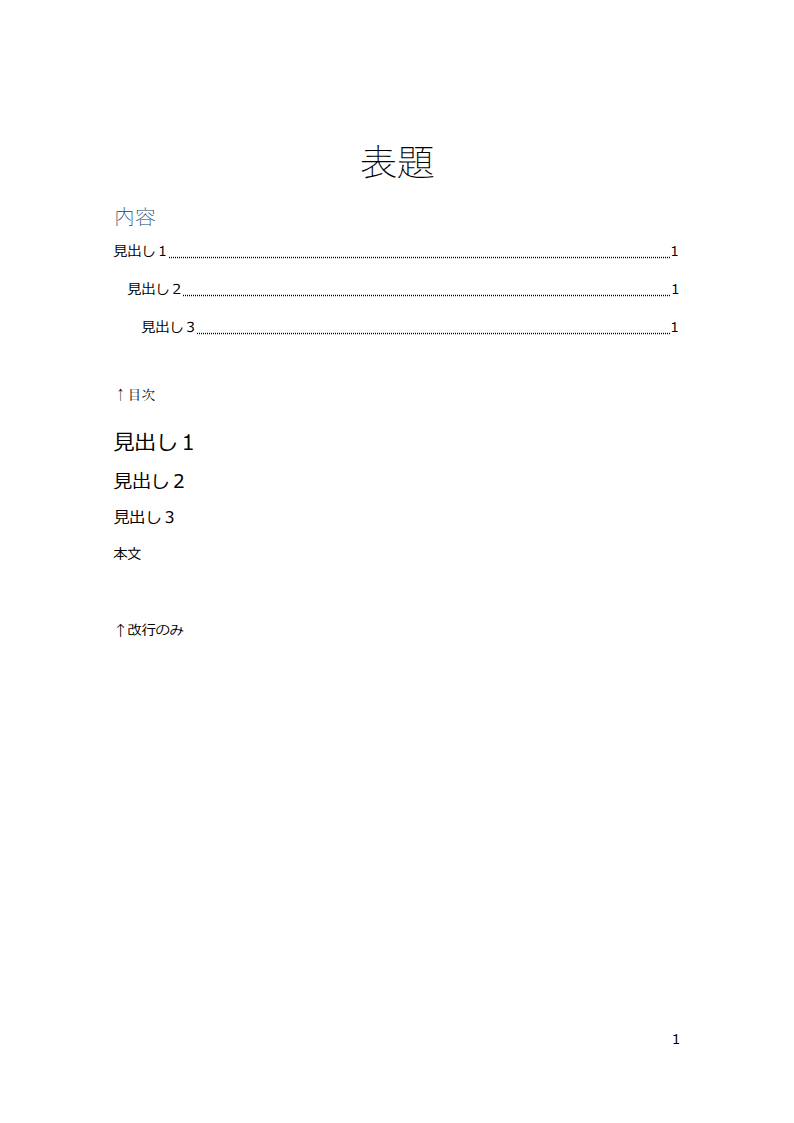
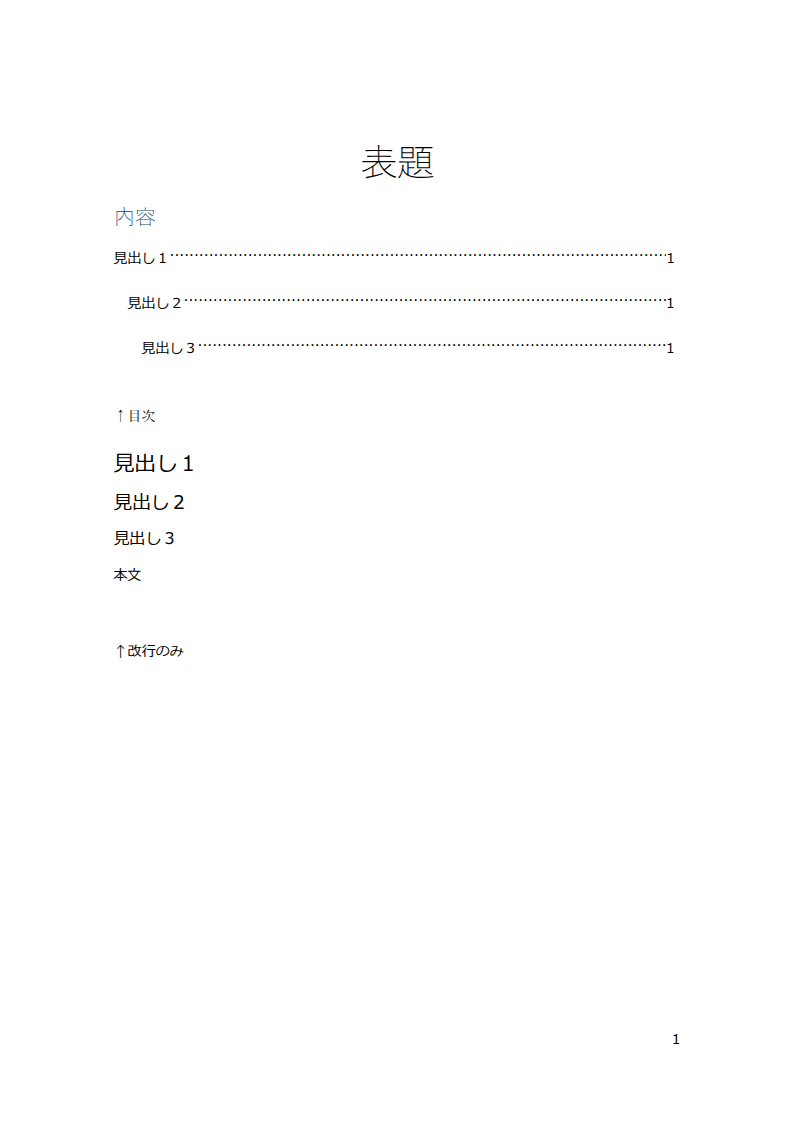
- src/ooxml/wordprocessingml/parsing/properties-parser.ts: w:rPr/w:spacing を margin-bottom ではなく letter-spacing として処理。direct run だけでなく style/default rPr 側も対応。   - src/javascript.ts: TOC の tab leader を dotted underline 代用から、tab 幅に合わせた glyph 繰り返しに変更。

diff --git a/src/javascript.ts b/src/javascript.ts
@@ -3,6 +3,7 @@ import { TabStop } from '@docx/ooxml/wordprocessingml/document/model/paragraph';
 
 const defaultTab: TabStop = { position: 0, leader: "none", style: "left" };
 const maxTabs = 50;
+let leaderMeasureContext: CanvasRenderingContext2D | null = null;
 
 // calculate pixel to point ratio.
 // ratio = point / pixel;
@@ -21,6 +22,7 @@ export function computePointToPixelRatio(container: HTMLElement = document.body)
 }
 
 export function updateTabStop(element: HTMLElement, tabs: TabStop[], defaultTabSize: Length, pixelToPoint: number = 72 / 96) {
+	resetTabElement(element);
 	// element's parent paragraph
 	const oParagraph: HTMLParagraphElement = element.closest("p");
 	// element rect
@@ -90,31 +92,78 @@ export function updateTabStop(element: HTMLElement, tabs: TabStop[], defaultTabS
 		width = tab.position - left;
 	}
 
-	element.innerHTML = "&nbsp;";
-	element.style.textDecoration = "inherit";
-	element.style.wordSpacing = `${width.toFixed(0)}pt`;
+	applyTabLeader(element, tab.leader, Math.max(width, 0), pixelToPoint);
+}
 
-	switch (tab.leader) {
+function resetTabElement(element: HTMLElement): void {
+	element.textContent = '\u00a0';
+	element.style.display = '';
+	element.style.width = '';
+	element.style.overflow = '';
+	element.style.whiteSpace = '';
+	element.style.wordSpacing = '';
+	element.style.textDecoration = 'inherit';
+	element.style.textDecorationLine = 'none';
+}
+
+function applyTabLeader(element: HTMLElement, leader: string, widthPt: number, pixelToPoint: number): void {
+	element.style.display = 'inline-block';
+	element.style.width = `${widthPt.toFixed(2)}pt`;
+	element.style.overflow = 'hidden';
+	element.style.whiteSpace = 'nowrap';
+	element.style.textDecoration = 'inherit';
+
+	const glyph = leaderGlyph(leader);
+	if (!glyph) {
+		element.textContent = '\u00a0';
+		element.style.wordSpacing = `${widthPt.toFixed(2)}pt`;
+		return;
+	}
+
+	element.style.wordSpacing = '';
+	element.textContent = glyph.repeat(leaderGlyphCount(element, glyph, widthPt, pixelToPoint));
+}
+
+function leaderGlyph(leader: string): string | null {
+	switch (leader) {
 		case "dot":
+			return ".";
 		case "middleDot":
-			element.style.textDecorationLine = "underline";
-			element.style.textDecorationStyle = "dotted";
-			break;
-
+			return "·";
 		case "hyphen":
-			element.style.textDecorationLine = "underline";
-			element.style.textDecorationStyle = "dashed";
-			break;
-
+			return "-";
 		case "heavy":
 		case "underscore":
-			element.style.textDecorationLine = "underline";
-			element.style.textDecorationStyle = "solid";
-			break;
-
+			return "_";
 		case "none":
 		default:
-			element.style.textDecorationLine = "none";
-			break;
+			return null;
 	}
+}
+
+function leaderGlyphCount(element: HTMLElement, glyph: string, widthPt: number, pixelToPoint: number): number {
+	const widthPx = widthPt / pixelToPoint;
+	const glyphWidth = measureLeaderGlyph(element, glyph);
+	if (!Number.isFinite(glyphWidth) || glyphWidth <= 0) {
+		return 1;
+	}
+	return Math.max(1, Math.ceil(widthPx / glyphWidth) + 2);
+}
+
+function measureLeaderGlyph(element: HTMLElement, glyph: string): number {
+	if (!leaderMeasureContext) {
+		leaderMeasureContext = document.createElement('canvas').getContext('2d');
+	}
+	if (!leaderMeasureContext) {
+		return 0;
+	}
+
+	const style = getComputedStyle(element);
+	leaderMeasureContext.font = `${style.fontStyle} ${style.fontVariant} ${style.fontWeight} ${style.fontSize} ${style.fontFamily}`;
+	const letterSpacing = parseFloat(style.letterSpacing);
+	let spacing = 0;
+	if (Number.isFinite(letterSpacing)) {
+		spacing = letterSpacing;
+	}
+	return leaderMeasureContext.measureText(glyph).width + spacing;
 }

diff --git a/src/ooxml/wordprocessingml/parsing/properties-parser.ts b/src/ooxml/wordprocessingml/parsing/properties-parser.ts
@@ -137,6 +137,11 @@ export function parseDefaultProperties(
 				style["background-color"] = xmlUtil.colorAttr(c, "fill", null, autos.shd);
 				break;
 
+			// Expanded or compressed character pitch.
+			case "spacing":
+				style["letter-spacing"] = xml.lengthAttr(c, "val");
+				break;
+
 			// Small Caps
 			case "smallCaps":
 				style["font-variant"] = xml.boolAttr(c, "val", true) ? "small-caps" : "none";
@@ -412,7 +417,7 @@ export function parseSpacing(node: Element, run: WmlRun, options: DocumentParser
 	for (const attr of xml.attrs(node)) {
 		switch (attr.localName) {
 			case "val":
-				run.cssStyle["margin-bottom"] = xml.lengthAttr(node, "val");
+				run.cssStyle["letter-spacing"] = xml.lengthAttr(node, "val");
 				break;
 			default:
 				if (options.debug) {

diff --git a/ACCURACY.md b/ACCURACY.md
@@ -8,21 +8,21 @@ Every library renders `tests/fixtures/a.docx` with `{ breakPages: true }` inside
 
 | Library | Pages rendered | Overall score |
 |---|---|---|
-| docx-renderer (this project) | 5 / 5 | **98.9%** |
-| docx-preview-sync (fork parent) | 5 / 5 | **94.2%** |
-| docx-preview (docxjs, original) | 3 / 5 | **53.3%** |
+| docx-renderer (this project) | 5 / 5 | **98.901%** |
+| docx-preview-sync (fork parent) | 5 / 5 | **94.227%** |
+| docx-preview (docxjs, original) | 3 / 5 | **53.285%** |
 
 ## docx-renderer (this project)
 
 | Page | Score |
 |---|---|
-| 1 | 99.4% |
-| 2 | 98.7% |
-| 3 | 99.8% |
-| 4 | 99.4% |
-| 5 | 97.1% |
+| 1 | 99.531% |
+| 2 | 98.702% |
+| 3 | 99.787% |
+| 4 | 99.387% |
+| 5 | 97.101% |
 
-### Page 1 — 99.4%
+### Page 1 — 99.531%
 
 <p align="center">
   <img src="./accuracy/docx-renderer/page-1-reference.png" width="30%" alt="Word reference, page 1">
@@ -31,7 +31,7 @@ Every library renders `tests/fixtures/a.docx` with `{ breakPages: true }` inside
 </p>
 <p align="center"><sub>Word reference · rendered output · pixel diff</sub></p>
 
-### Page 2 — 98.7%
+### Page 2 — 98.702%
 
 <p align="center">
   <img src="./accuracy/docx-renderer/page-2-reference.png" width="30%" alt="Word reference, page 2">
@@ -40,7 +40,7 @@ Every library renders `tests/fixtures/a.docx` with `{ breakPages: true }` inside
 </p>
 <p align="center"><sub>Word reference · rendered output · pixel diff</sub></p>
 
-### Page 3 — 99.8%
+### Page 3 — 99.787%
 
 <p align="center">
   <img src="./accuracy/docx-renderer/page-3-reference.png" width="30%" alt="Word reference, page 3">
@@ -49,7 +49,7 @@ Every library renders `tests/fixtures/a.docx` with `{ breakPages: true }` inside
 </p>
 <p align="center"><sub>Word reference · rendered output · pixel diff</sub></p>
 
-### Page 4 — 99.4%
+### Page 4 — 99.387%
 
 <p align="center">
   <img src="./accuracy/docx-renderer/page-4-reference.png" width="30%" alt="Word reference, page 4">
@@ -58,7 +58,7 @@ Every library renders `tests/fixtures/a.docx` with `{ breakPages: true }` inside
 </p>
 <p align="center"><sub>Word reference · rendered output · pixel diff</sub></p>
 
-### Page 5 — 97.1%
+### Page 5 — 97.101%
 
 <p align="center">
   <img src="./accuracy/docx-renderer/page-5-reference.png" width="30%" alt="Word reference, page 5">
@@ -71,13 +71,13 @@ Every library renders `tests/fixtures/a.docx` with `{ breakPages: true }` inside
 
 | Page | Score |
 |---|---|
-| 1 | 99.6% |
-| 2 | 75.8% |
-| 3 | 99.8% |
-| 4 | 98.8% |
-| 5 | 97.1% |
+| 1 | 99.628% |
+| 2 | 75.818% |
+| 3 | 99.788% |
+| 4 | 98.836% |
+| 5 | 97.063% |
 
-### Page 1 — 99.6%
+### Page 1 — 99.628%
 
 <p align="center">
   <img src="./accuracy/docx-preview-sync/page-1-reference.png" width="30%" alt="Word reference, page 1">
@@ -86,7 +86,7 @@ Every library renders `tests/fixtures/a.docx` with `{ breakPages: true }` inside
 </p>
 <p align="center"><sub>Word reference · rendered output · pixel diff</sub></p>
 
-### Page 2 — 75.8%
+### Page 2 — 75.818%
 
 <p align="center">
   <img src="./accuracy/docx-preview-sync/page-2-reference.png" width="30%" alt="Word reference, page 2">
@@ -95,7 +95,7 @@ Every library renders `tests/fixtures/a.docx` with `{ breakPages: true }` inside
 </p>
 <p align="center"><sub>Word reference · rendered output · pixel diff</sub></p>
 
-### Page 3 — 99.8%
+### Page 3 — 99.788%
 
 <p align="center">
   <img src="./accuracy/docx-preview-sync/page-3-reference.png" width="30%" alt="Word reference, page 3">
@@ -104,7 +104,7 @@ Every library renders `tests/fixtures/a.docx` with `{ breakPages: true }` inside
 </p>
 <p align="center"><sub>Word reference · rendered output · pixel diff</sub></p>
 
-### Page 4 — 98.8%
+### Page 4 — 98.836%
 
 <p align="center">
   <img src="./accuracy/docx-preview-sync/page-4-reference.png" width="30%" alt="Word reference, page 4">
@@ -113,7 +113,7 @@ Every library renders `tests/fixtures/a.docx` with `{ breakPages: true }` inside
 </p>
 <p align="center"><sub>Word reference · rendered output · pixel diff</sub></p>
 
-### Page 5 — 97.1%
+### Page 5 — 97.063%
 
 <p align="center">
   <img src="./accuracy/docx-preview-sync/page-5-reference.png" width="30%" alt="Word reference, page 5">
@@ -126,13 +126,13 @@ Every library renders `tests/fixtures/a.docx` with `{ breakPages: true }` inside
 
 | Page | Score |
 |---|---|
-| 1 | 92.9% |
-| 2 | 78.5% |
-| 3 | 95.1% |
+| 1 | 92.881% |
+| 2 | 78.470% |
+| 3 | 95.073% |
 | 4 | 0% (not rendered) |
 | 5 | 0% (not rendered) |
 
-### Page 1 — 92.9%
+### Page 1 — 92.881%
 
 <p align="center">
   <img src="./accuracy/docx-preview/page-1-reference.png" width="30%" alt="Word reference, page 1">
@@ -141,7 +141,7 @@ Every library renders `tests/fixtures/a.docx` with `{ breakPages: true }` inside
 </p>
 <p align="center"><sub>Word reference · rendered output · pixel diff</sub></p>
 
-### Page 2 — 78.5%
+### Page 2 — 78.470%
 
 <p align="center">
   <img src="./accuracy/docx-preview/page-2-reference.png" width="30%" alt="Word reference, page 2">
@@ -150,7 +150,7 @@ Every library renders `tests/fixtures/a.docx` with `{ breakPages: true }` inside
 </p>
 <p align="center"><sub>Word reference · rendered output · pixel diff</sub></p>
 
-### Page 3 — 95.1%
+### Page 3 — 95.073%
 
 <p align="center">
   <img src="./accuracy/docx-preview/page-3-reference.png" width="30%" alt="Word reference, page 3">

diff --git a/docs/TEXT_ALIGNMENT_PLAN.md b/docs/TEXT_ALIGNMENT_PLAN.md
@@ -13,30 +13,27 @@
 
 ## 修正順
 
-1. **文字位置計測を固定**
+1. **文字位置計測を固定** — 実施済み
    - `pnpm measure:all` で現状画像を再生成。
    - `agent-browser` で p1 を開き、表題、TOC 見出し、leader、ページ番号の DOM rect と computed style を取る。
    - reference PNG 側は `pngjs` で同じ文字塊の bbox を取る。以後は「どの文字塊が何 px ずれたか」で判断する。
 
-2. **run `w:spacing` を直す**
-   - `src/ooxml/wordprocessingml/parsing/properties-parser.ts` の `parseSpacing` を `letter-spacing` へ変更。
-   - `margin-bottom` への変換を消す。run spacing は縦余白ではない。
-   - paragraph style の run ruleset から生成された span/p strut にも、必要な範囲で同じ文字幅が効くことを確認。
-   - 期待効果: 表題、見出し、p4 の「大きい文字」など、文字幅由来の x/y 連鎖ズレが減る。
+2. **run `w:spacing` を直す** — 実施済み
+   - `src/ooxml/wordprocessingml/parsing/properties-parser.ts` の direct run `parseSpacing` を `letter-spacing` へ変更。
+   - style/default `rPr` の `w:spacing` も `letter-spacing` へ変換。表題 style の `w:spacing="-10"` はここを通る。
+   - `margin-bottom` への変換を消した。run spacing は縦余白ではない。
 
-3. **TOC tab leader を Word 型にする**
-   - `<w:tab>` は underline ではなく leader span にする。
-   - tab stop までの残り幅を測り、現在 font/size/letter-spacing で dot glyph を繰り返す。
-   - 最後のページ番号の右端を `w:tab w:pos="8494"` に合わせる。
-   - font load 後に再計算する。既存の `refreshTabStops()` に統合する。
-   - 期待効果: p1 TOC の長い横線差分を消す。
+3. **TOC tab leader を Word 型にする** — 実施済み
+   - `<w:tab>` は underline ではなく leader glyph span にする。
+   - tab stop までの残り幅を測り、現在 font/size/letter-spacing で glyph を繰り返す。
+   - font load 後の `refreshTabStops()` 再計算に統合。
 
-4. **CJK 互換設定を実装範囲に入れる**
+4. **CJK 互換設定を実装範囲に入れる** — 未実施
    - settings parser に `characterSpacingControl`、`useFELayout`、`balanceSingleByteDoubleByteWidth` を保持させる。
    - まず `compressPunctuation` だけ実測で効く箇所を確認する。全テキストへ固定 letter-spacing を足さない。
    - `leftChars` / `hangingChars` / `firstLineChars` は、char grid がある時だけ文字単位インデントとして評価する。`left` と二重適用しない。
 
-5. **docGrid は対象を限定**
+5. **docGrid は対象を限定** — 継続
    - Normal の `snapToGrid=0` を尊重する。
    - TOC Heading と明示 `snapToGrid` 段落だけ line pitch を確認する。
    - p4 の2段組みは、文字幅と行高が直った後に column split を再測定する。先に column fill をいじらない。
@@ -46,5 +43,13 @@
 - 必須: `pnpm test`、`pnpm measure:all`。
 - 目標: p1 の表題/TOC 二重像を消す。p1〜p4 はページ数維持で 99.8% 以上を先に狙う。100% は diff を見て残差を個別に潰す。
 - 回帰条件: 5ページが6ページになる、p2 の画像/表位置が崩れる、p4 の2段組み分配が悪化する。この場合は止めて原因を測る。
+
+## 今回の結果
+
+- `pnpm test`: 103 tests passed。
+- `pnpm run build`: 成功。
+- `pnpm measure:all`: 5183 使用中で失敗。代替として `agent-browser` + `scripts/measure-accuracy.mjs` で docx-renderer のみ採点。
+- 結果: p1 99.53% / p2 98.70% / p3 99.79% / p4 99.39% / p5 97.10%、5ページ維持。
+- `ACCURACY.md` の丸め表示は p1 99.5%。`accuracy/docx-renderer` の画像は最新採点で更新。
 
 根本原因候補: run spacing を縦余白として扱う誤変換、TOC leader の描画モデル違い、CJK 互換設定未反映。
